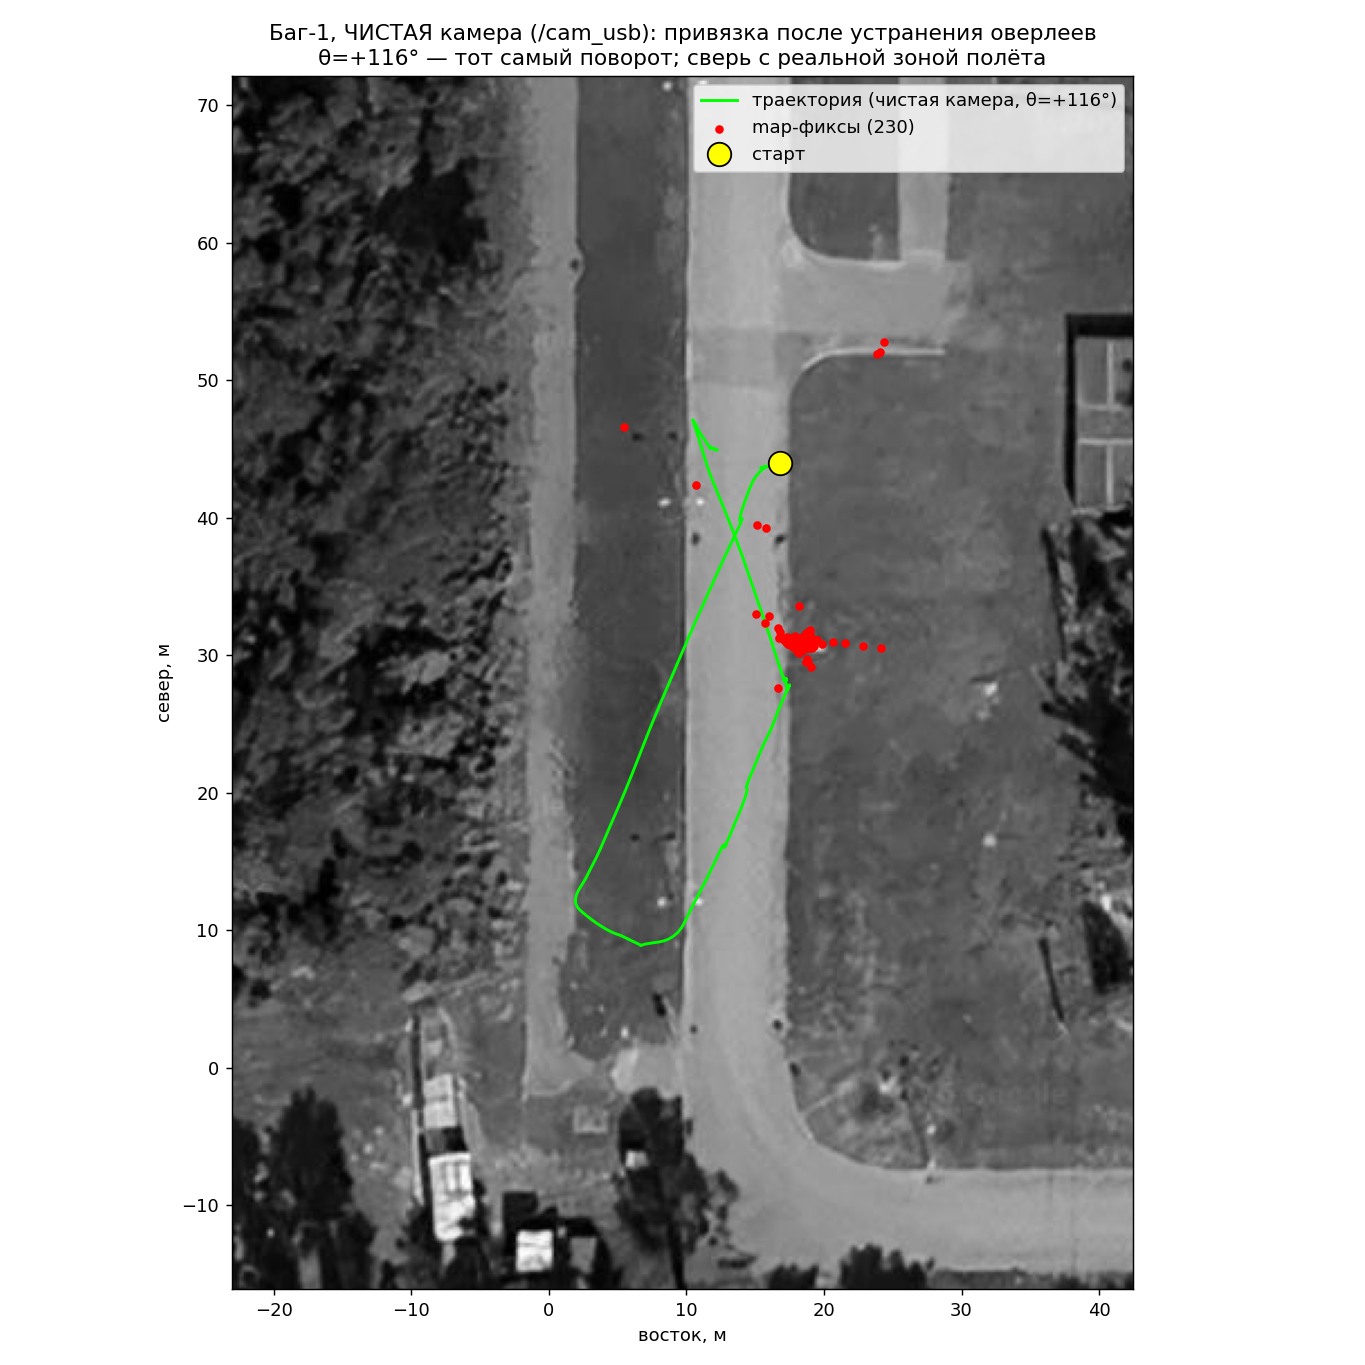
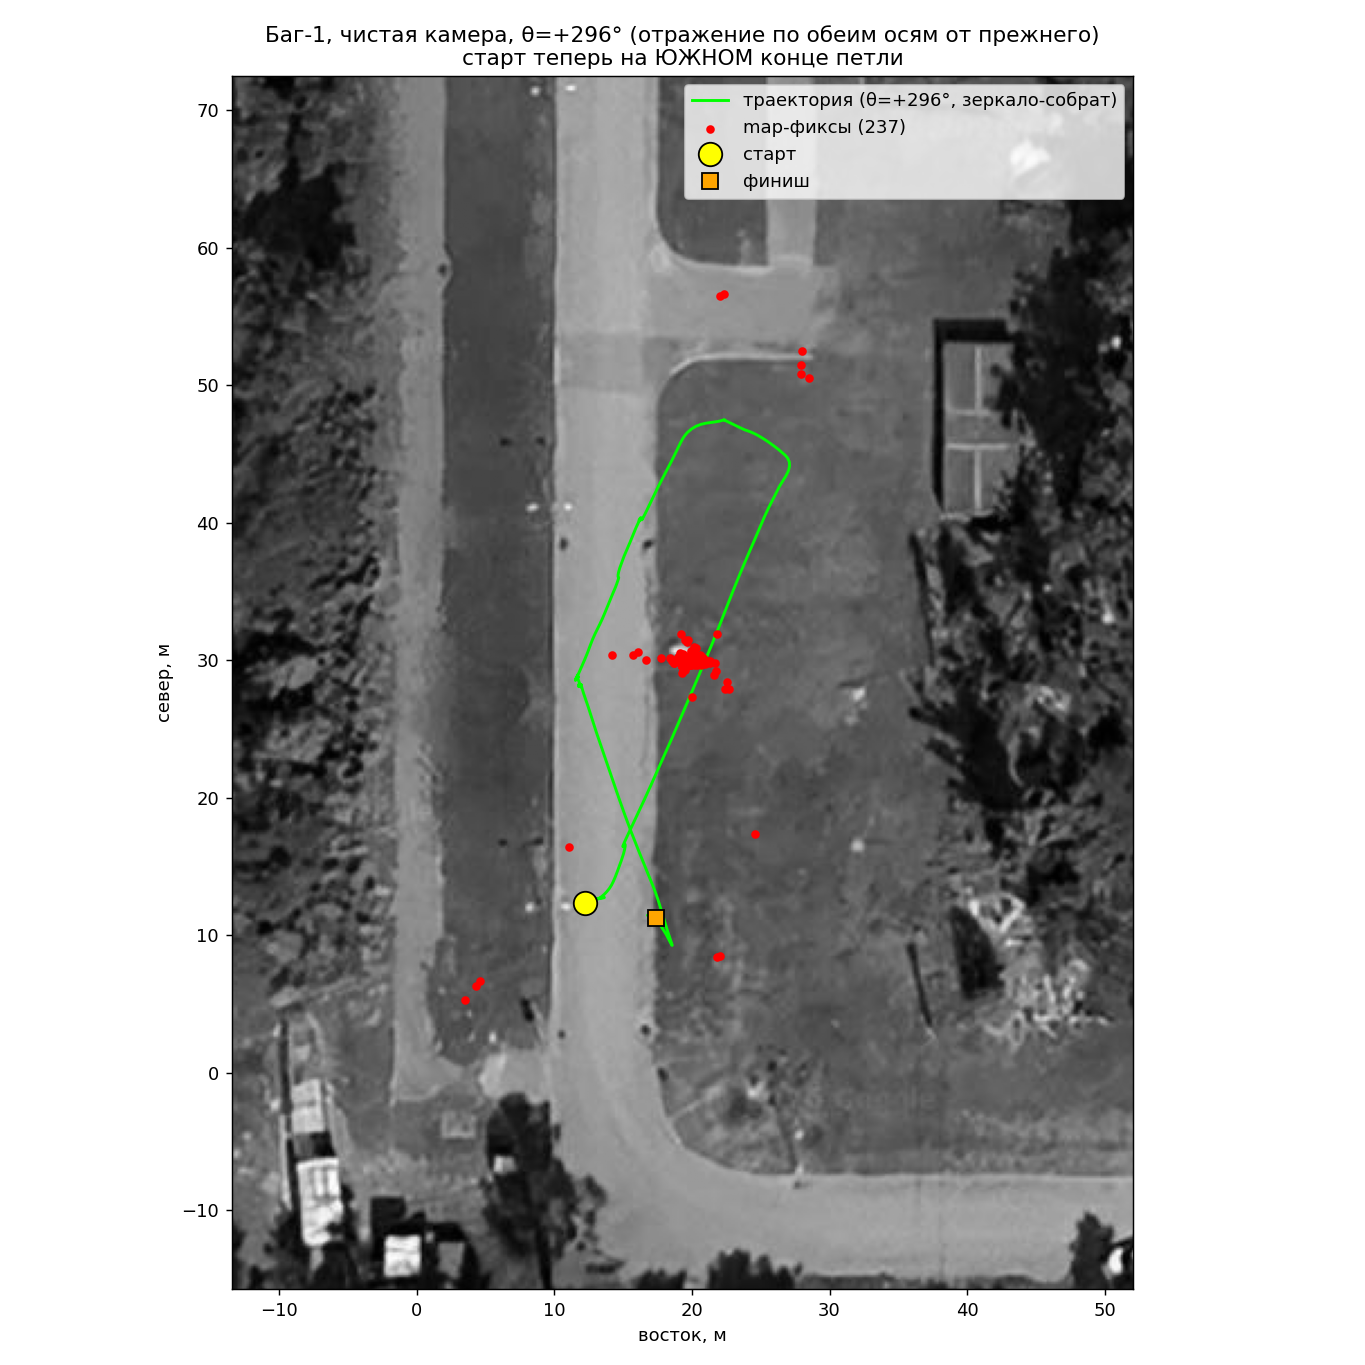
Bag-1 georef finalized per user ground truth: theta=296 (mirror sibling)
Матчер не различал +-180 на квази-симметричной полосе (22 vs 21 матчей); пользователь
дал правду: старт на юге. Конвенция mir=fliph ys=-1 yo=90 theta=296 t=(12.5,12.5).
Урок: 180-неоднозначность авто-калибровки на вырожденных сценах; на железе снимается
компасом. results/sat_overlay_bag1_clean.png обновлён.

diff --git a/docs/EXPERIMENTS.md b/docs/EXPERIMENTS.md
@@ -362,3 +362,9 @@ aperture по граням), Forward-Backward (`use_fb_check`), Cross-check Pyra
   Кэш: bag1_cam_cache.npz. Уроки: проверять СОДЕРЖИМОЕ топика, а не название; дебаг-графика
   в кадрах = систематическая порча всех vision-слоёв; наземная правда пользователя дважды
   спасла от уверенных ложных выводов.
+- **Привязка бага-1 (чистая камера) финализирована по наземной правде**: конвенция
+  mir=fliph, ys=-1, yo=90°, **θ=+296°**, t≈(+12.5,+12.5) — зеркальный собрат авто-выбора
+  (матчер не различал ±180° на квази-симметричной полосе: 22 vs 21 узких матчей; правду дал
+  пользователь). Старт на южном конце петли, петля N-S вдоль полосы. Урок: на вырожденных
+  сценах авто-калибровка ориентации имеет 180°-неоднозначность — на железе снимается
+  компасом (yaw абсолютный), в оффлайне — наземной правдой.